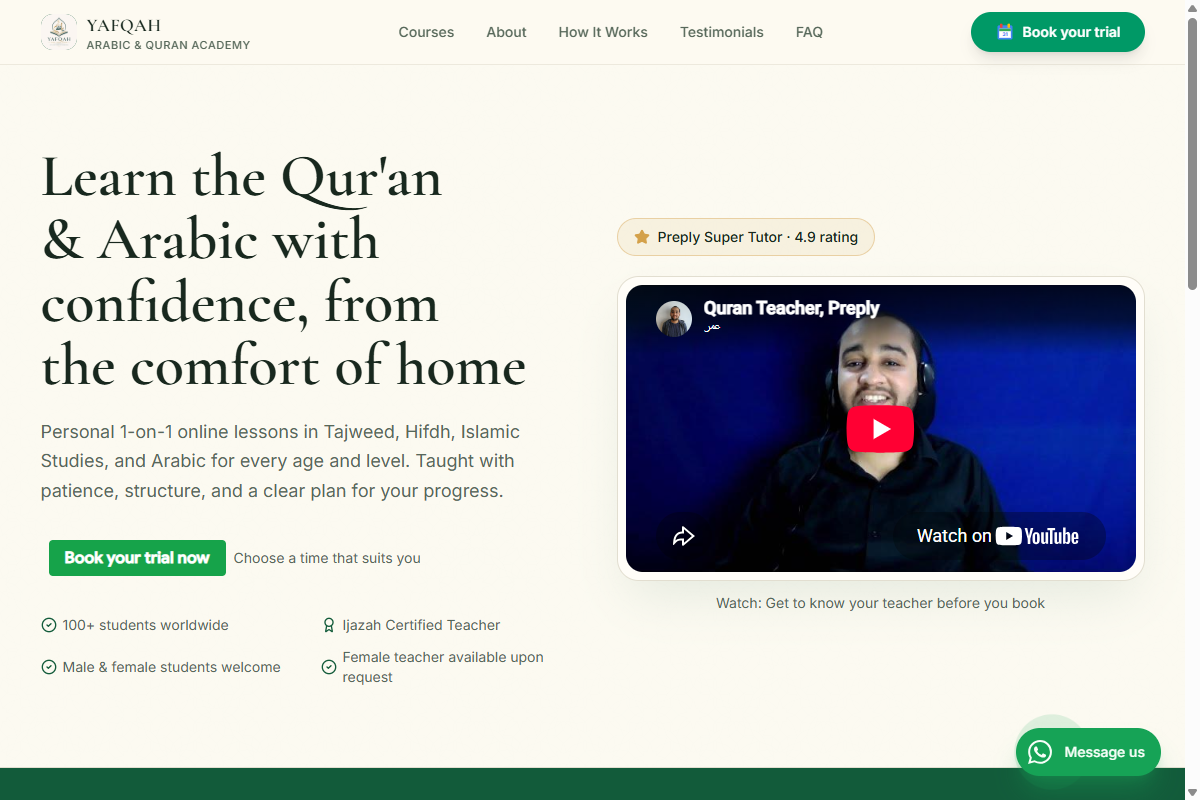
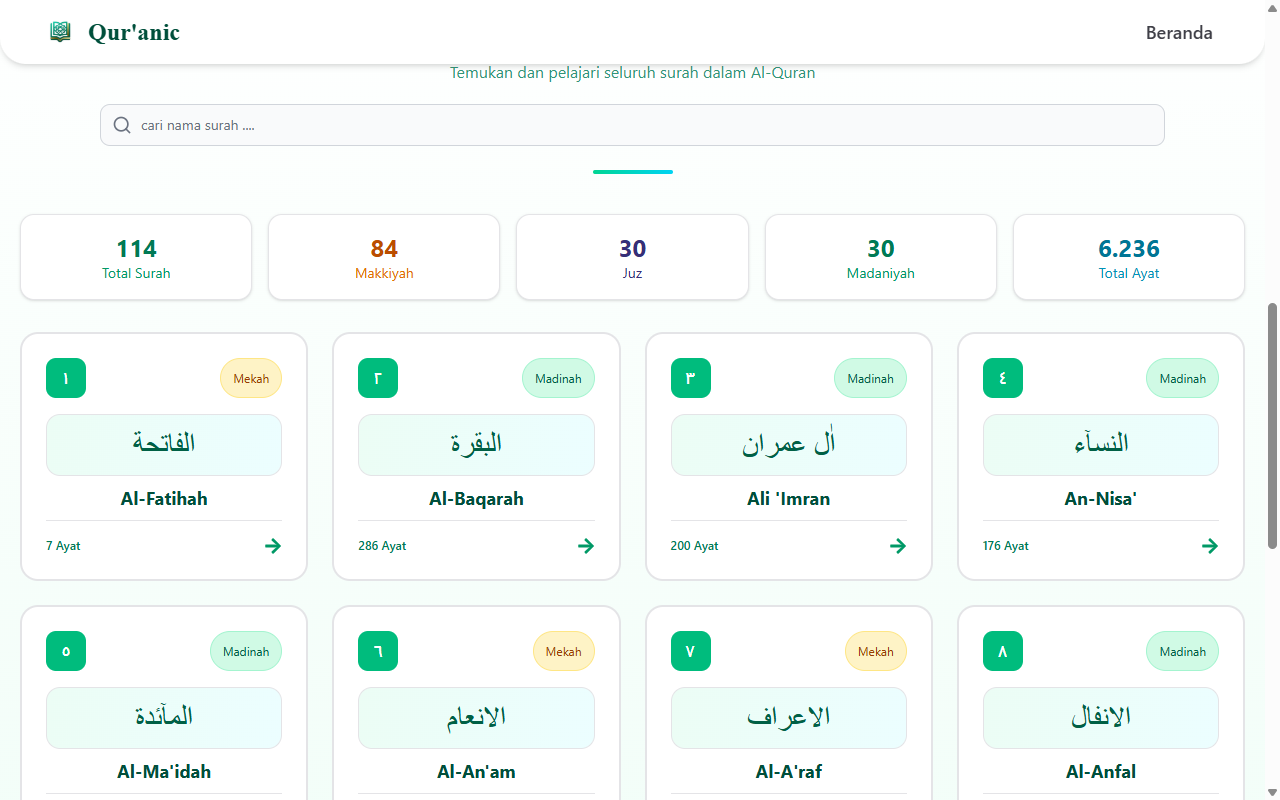
feat(projects): update Quranic demo link to https://quani.vercel.app/, add authentic app screenshots, and remove duplicate photos in DocMorph and Chen ERD galleries

diff --git a/src/data/portfolioData.ts b/src/data/portfolioData.ts
@@ -8,12 +8,10 @@ import wishoraDoc from '../assets/projects/wishora-doc.png';
 import monetaImg from '../assets/projects/moneta.png';
 import monetaDoc from '../assets/projects/moneta-doc.png';
 import docmorphImg from '../assets/projects/docmorph.png';
-import docmorphDoc from '../assets/projects/docmorph-doc.png';
 import docmorphDoc2 from '../assets/projects/docmorph-doc2.png';
 import gotohImg from '../assets/projects/gotoh.png';
 import gotohDoc from '../assets/projects/gotoh-doc.png';
 import chenErdImg from '../assets/projects/chen-erd.png';
-import chenErdDoc1 from '../assets/projects/chen-erd-doc1.png';
 import chenErdDoc2 from '../assets/projects/chen-erd-doc2.png';
 import absensiFlow from '../assets/projects/absensi-flow.png';
 import absensiErd from '../assets/projects/absensi-erd.png';
@@ -101,7 +99,7 @@ export const projectsData: Project[] = [
     type: 'web',
     tech: ['Next.js', 'WASM', 'Tailwind', 'TypeScript', 'Web APIs'],
     img: docmorphImg,
-    gallery: [docmorphDoc, docmorphDoc2],
+    gallery: [docmorphDoc2],
     github: 'https://github.com/fajarlm/convert-file',
     demo: 'https://convert-file-vert.vercel.app'
   },
@@ -129,7 +127,7 @@ export const projectsData: Project[] = [
     type: 'web',
     tech: ['React', 'Vite', 'Canvas/SVG', 'SQL Parser', 'Tailwind'],
     img: chenErdImg,
-    gallery: [chenErdDoc1, chenErdDoc2],
+    gallery: [chenErdDoc2],
     github: 'https://github.com/fajarlm/chen-erd',
     demo: 'https://chen-erd.vercel.app'
   },
@@ -145,7 +143,7 @@ export const projectsData: Project[] = [
     img: quranic, 
     gallery: [quranicWebDoc1, quranicWebDoc2],
     github: 'https://github.com/fajarlm/quranic', 
-    demo: 'https://quranic-seven.vercel.app/' 
+    demo: 'https://quani.vercel.app/' 
   },
   { 
     id: 7, 
